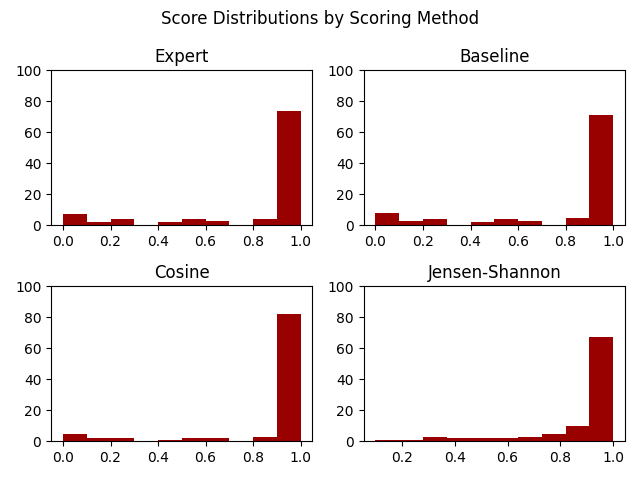
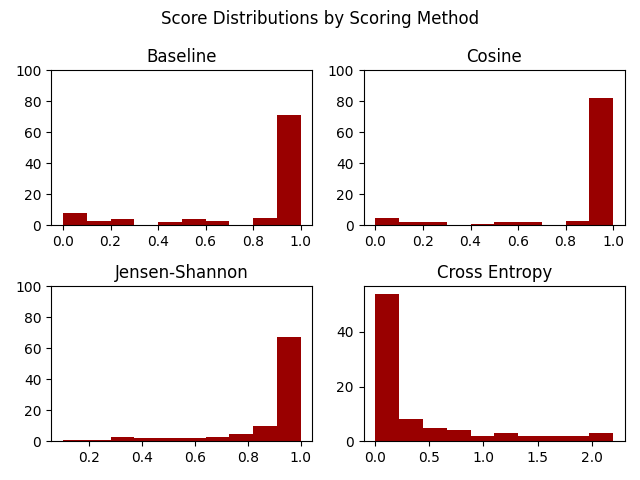
forgot files

diff --git a/alphabet_analysis.py b/alphabet_analysis.py
@@ -1,6 +1,7 @@
 import pickle
 import csv
 import matplotlib.pyplot as plt
+import re
 
 duplicates = {}
 alphabet = [" ", "a", "b", "c", "d", "e", "f", "g", "h", "i", "j", "k", "l", "m", "n", "o", "p", "q", "r", "s", "t", "u", "v", "w", "x", "y", "z", "'", "	"]
@@ -24,9 +25,28 @@ cos_scores = []
 jsd_scores = []
 xen_scores = []
 transcripts = []
+test_js = []
+cos_js = []
+jsd_js = []
+xen_js = []
+test_qs = []
+cos_qs = []
+jsd_qs = []
+xen_qs = []
+test_ns = []
+cos_ns = []
+jsd_ns = []
+xen_ns = []
+test_zs = []
+cos_zs = []
+jsd_zs = []
+xen_zs = []
 for pair in data_files[:5000]:
     gold, test = pair.split('/')[-1].split('.mp3.')[:2]
     with open(pair) as in_file:
+        transcript = ''.join([c for c in duplicates[test+'.mp3'][2].lower() if c in alphabet])
+        transcripts.append(transcript)
+
         gold_score = [float(x) for x in in_file.readline().split(',')]
         gold_scores.append(gold_score)
 
@@ -42,8 +62,27 @@ for pair in data_files[:5000]:
         xen_score = [(float(x) - 1) * -1 for x in in_file.readline().split(',')]
         xen_scores.append(xen_score)
 
-        transcript = ''.join([c for c in duplicates[test+'.mp3'][2].lower() if c in alphabet])
-        transcripts.append(transcript)
+        for x in [m.start() for m in re.finditer('j', transcript)]:
+            test_js.append(test_score[x])
+            cos_js.append(cos_score[x])
+            jsd_js.append(jsd_score[x])
+            xen_js.append(xen_score[x])
+        for x in [m.start() for m in re.finditer('q', transcript)]:
+            test_qs.append(test_score[x])
+            cos_qs.append(cos_score[x])
+            jsd_qs.append(jsd_score[x])
+            xen_qs.append(xen_score[x])
+        for x in [m.start() for m in re.finditer('n', transcript)]:
+            test_ns.append(test_score[x])
+            cos_ns.append(cos_score[x])
+            jsd_ns.append(jsd_score[x])
+            xen_ns.append(xen_score[x])
+        for x in [m.start() for m in re.finditer('z', transcript)]:
+            test_zs.append(test_score[x])
+            cos_zs.append(cos_score[x])
+            jsd_zs.append(jsd_score[x])
+            xen_zs.append(xen_score[x])
+
 
 print('Got this far')
 characters = sorted(set(''.join(transcripts)))
@@ -112,4 +151,64 @@ ax4.set_xticks(list(range(1, len(characters[2:]) + 1)))
 ax4.set_xticklabels(characters[2:])
 # ax4.set_ylabel('Baseline Score - Cross Entropy Score')
 ax4.set_title('Cross Entropy Scores per Character')
+
+fig5, ((ax5a, ax5b), (ax5c, ax5d)) = plt.subplots(nrows=2, ncols=2)
+fig5.suptitle('Scatter Plots for J')
+ax5a.scatter(test_js, cos_js, s = 1, c = '#990000')
+ax5a.set_xlabel('Baseline Score')
+ax5a.set_ylabel('Cosine Score')
+ax5a.set_title('Baseline vs Cosine')
+ax5b.scatter(test_js, jsd_js, s = 1, c = '#990000')
+ax5b.set_xlabel('Baseline Score')
+ax5b.set_ylabel('Jensen-Shannon Score')
+ax5b.set_title('Baseline vs Jensen-Shannon')
+ax5c.scatter(test_js, xen_js, s = 1, c = '#990000')
+ax5c.set_xlabel('Baseline Score')
+ax5c.set_ylabel('Cross Entropy Score')
+ax5c.set_title('Baseline vs Cross Entropy')
+
+fig6, ((ax6a, ax6b), (ax6c, ax6d)) = plt.subplots(nrows=2, ncols=2)
+fig6.suptitle('Scatter Plots for Q')
+ax6a.scatter(test_qs, cos_qs, s = 1, c = '#990000')
+ax6a.set_xlabel('Baseline Score')
+ax6a.set_ylabel('Cosine Score')
+ax6a.set_title('Baseline vs Cosine')
+ax6b.scatter(test_qs, jsd_qs, s = 1, c = '#990000')
+ax6b.set_xlabel('Baseline Score')
+ax6b.set_ylabel('Jensen-Shannon Score')
+ax6b.set_title('Baseline vs Jensen-Shannon')
+ax6c.scatter(test_qs, xen_qs, s = 1, c = '#990000')
+ax6c.set_xlabel('Baseline Score')
+ax6c.set_ylabel('Cross Entropy Score')
+ax6c.set_title('Baseline vs Cross Entropy')
+
+fig7, ((ax7a, ax7b), (ax7c, ax7d)) = plt.subplots(nrows=2, ncols=2)
+fig7.suptitle('Scatter Plots for N')
+ax7a.scatter(test_ns, cos_ns, s = 1, c = '#990000')
+ax7a.set_xlabel('Baseline Score')
+ax7a.set_ylabel('Cosine Score')
+ax7a.set_title('Baseline vs Cosine')
+ax7b.scatter(test_ns, jsd_ns, s = 1, c = '#990000')
+ax7b.set_xlabel('Baseline Score')
+ax7b.set_ylabel('Jensen-Shannon Score')
+ax7b.set_title('Baseline vs Jensen-Shannon')
+ax7c.scatter(test_ns, xen_ns, s = 1, c = '#990000')
+ax7c.set_xlabel('Baseline Score')
+ax7c.set_ylabel('Cross Entropy Score')
+ax7c.set_title('Baseline vs Cross Entropy')
+
+fig8, ((ax8a, ax8b), (ax8c, ax8d)) = plt.subplots(nrows=2, ncols=2)
+fig8.suptitle('Scatter Plots for Z')
+ax8a.scatter(test_zs, cos_zs, s = 1, c = '#990000')
+ax8a.set_xlabel('Baseline Score')
+ax8a.set_ylabel('Cosine Score')
+ax8a.set_title('Baseline vs Cosine')
+ax8b.scatter(test_zs, jsd_zs, s = 1, c = '#990000')
+ax8b.set_xlabel('Baseline Score')
+ax8b.set_ylabel('Jensen-Shannon Score')
+ax8b.set_title('Baseline vs Jensen-Shannon')
+ax8c.scatter(test_zs, xen_zs, s = 1, c = '#990000')
+ax8c.set_xlabel('Baseline Score')
+ax8c.set_ylabel('Cross Entropy Score')
+ax8c.set_title('Baseline vs Cross Entropy')
 plt.show()
